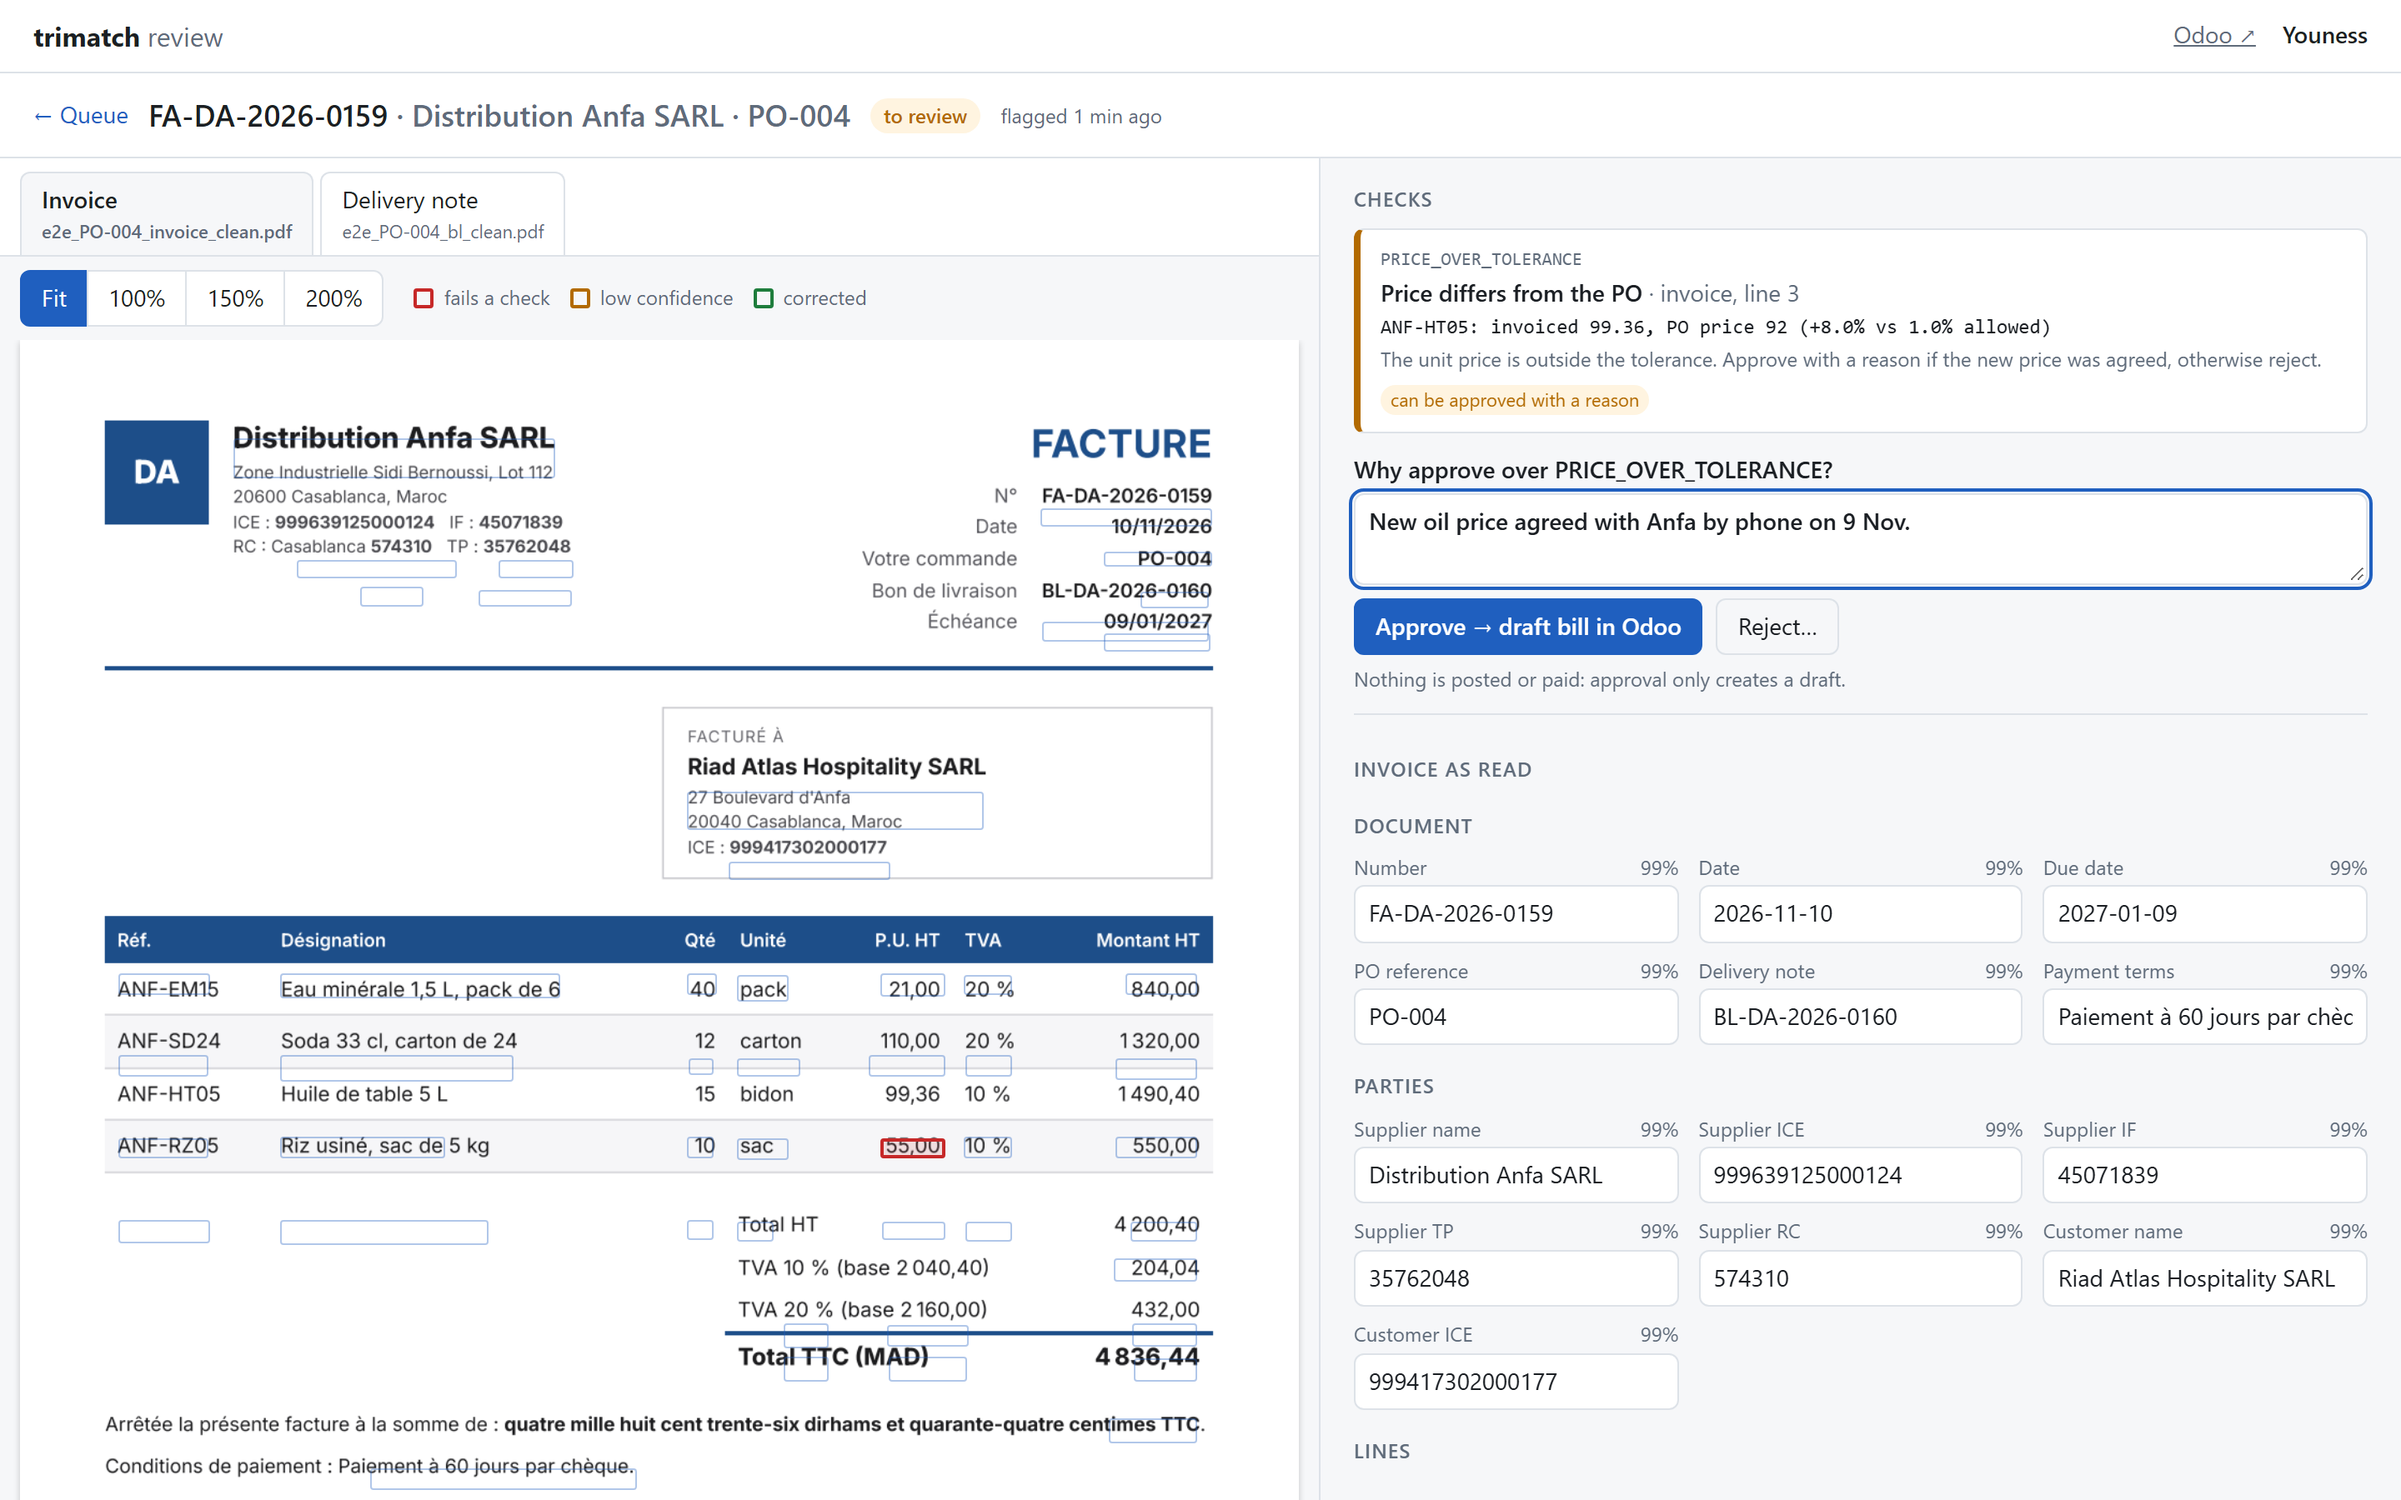
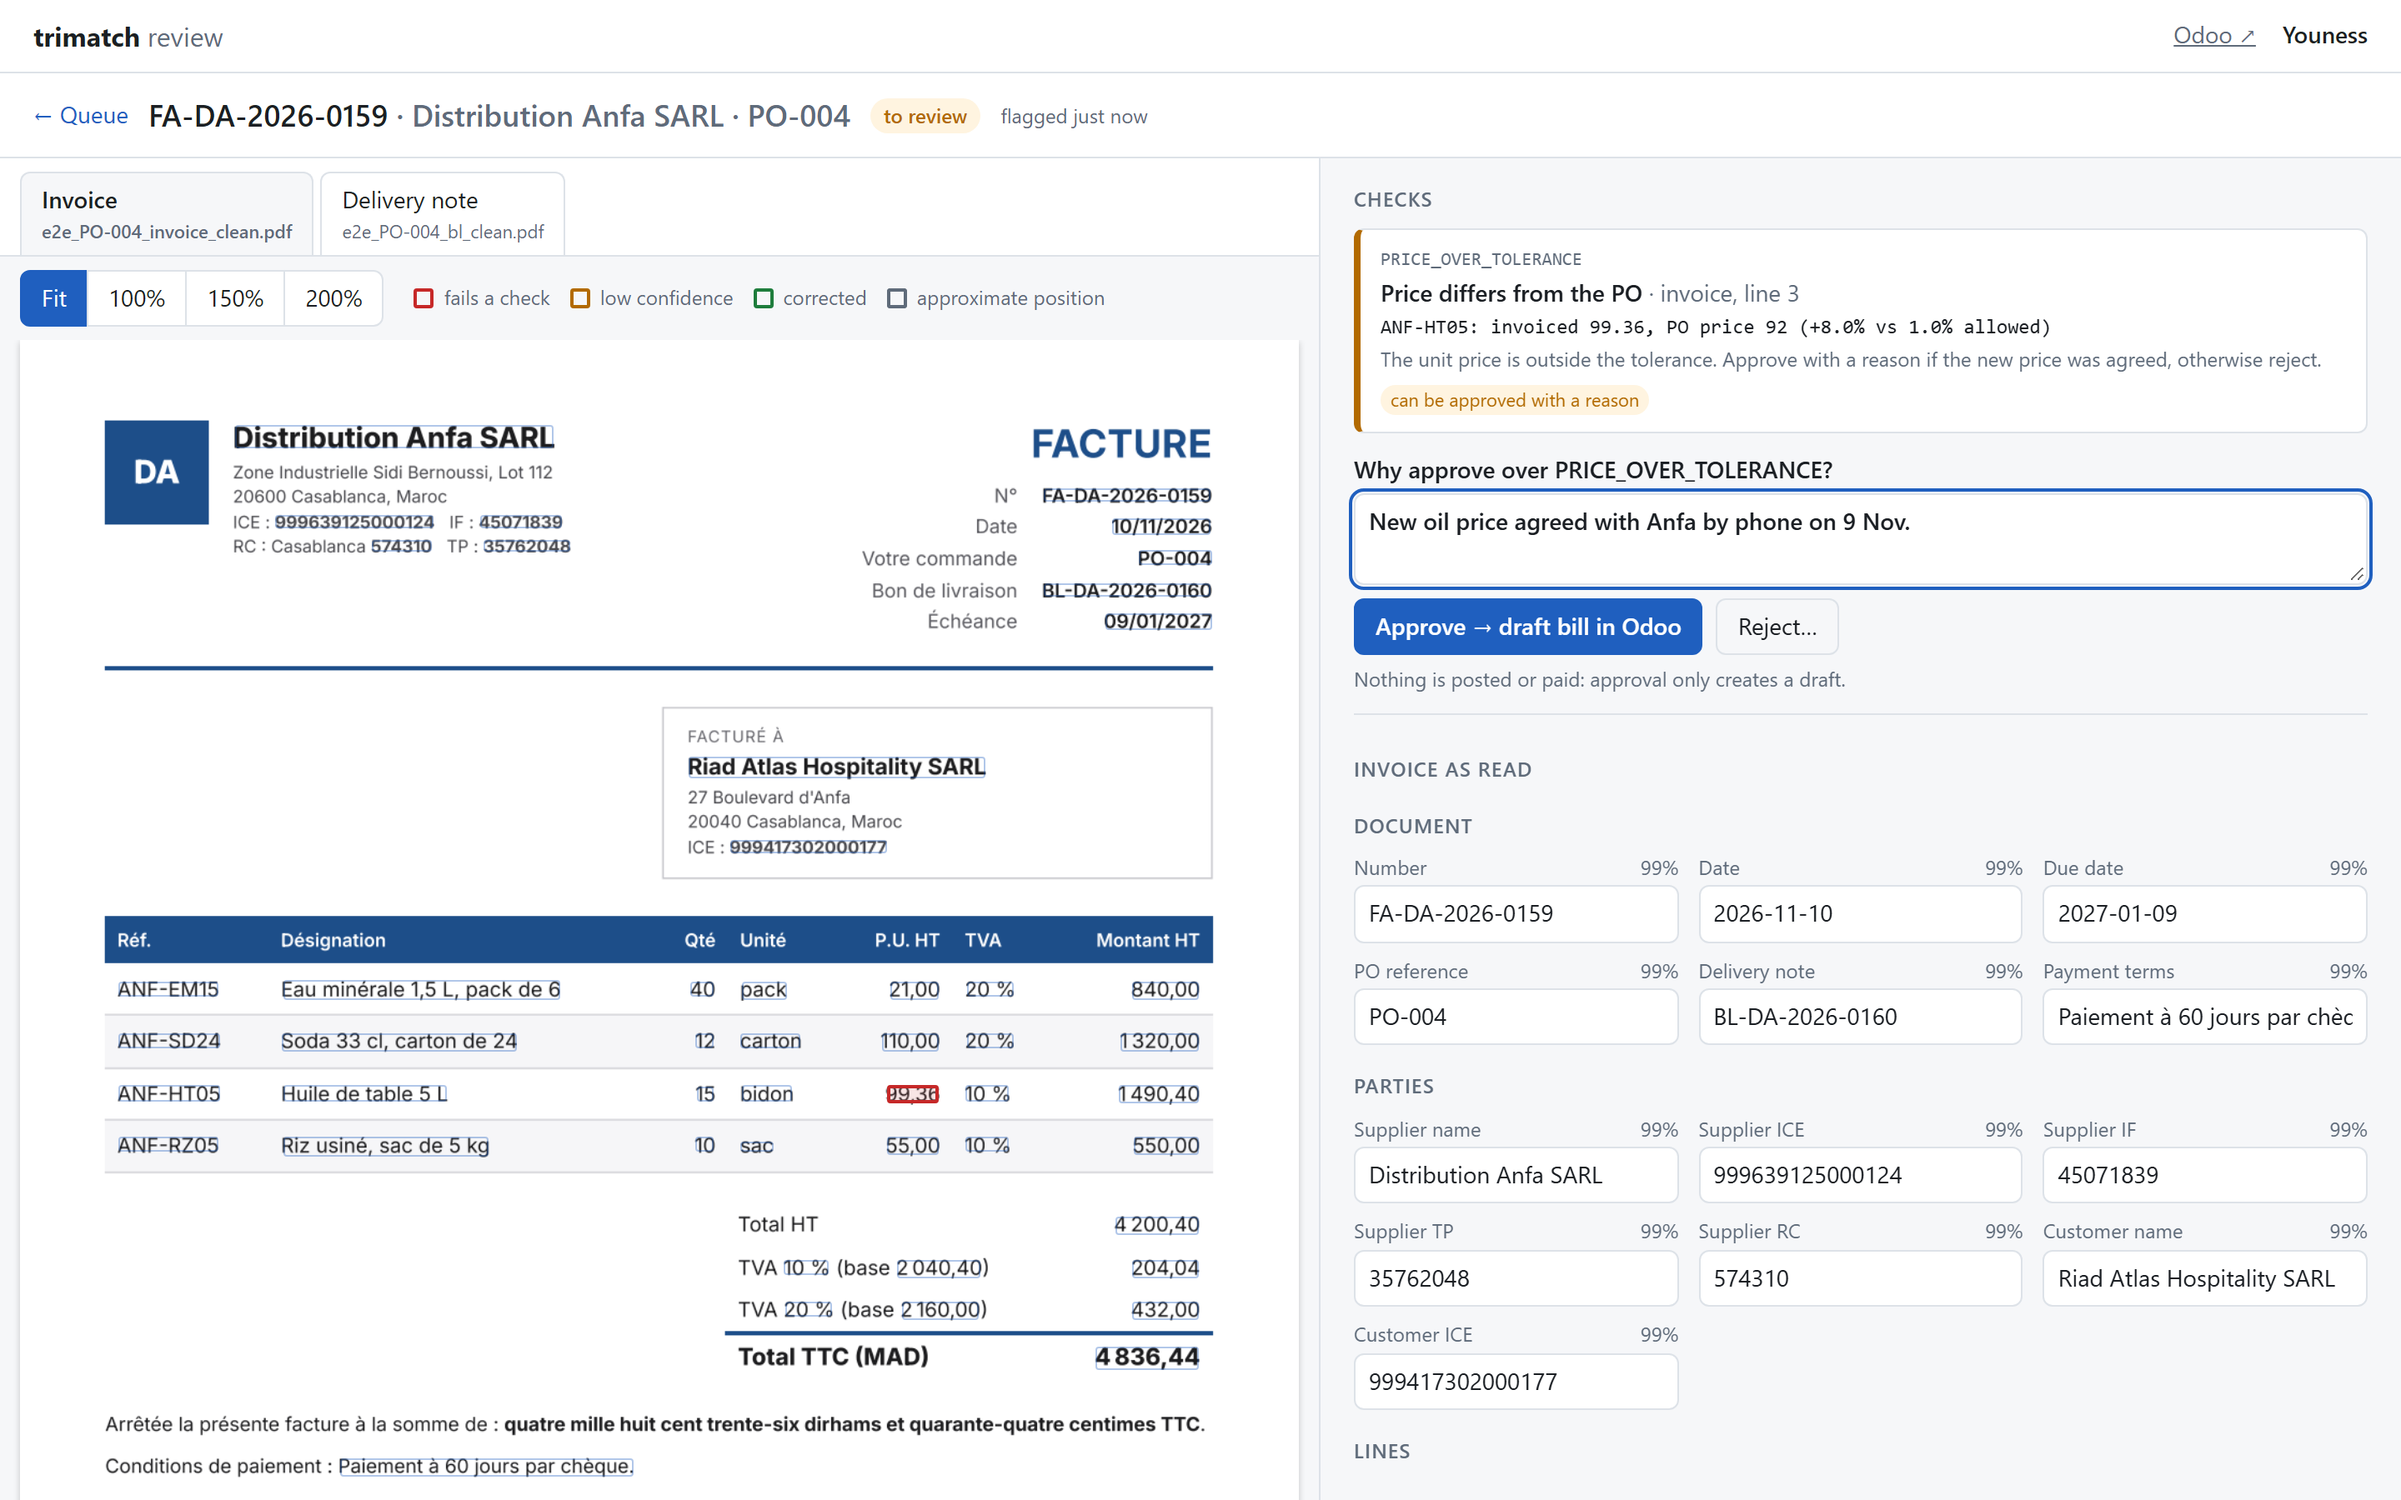
Shared pdfium lock (parallel extraction); demo re-recorded with snapped boxes

diff --git a/scripts/record_review_demo.py b/scripts/record_review_demo.py
@@ -67,11 +67,9 @@ def run(page: Page, ids: dict[str, int]) -> None:
     base.press_sequentially("2204.00", delay=120)
     expect(page.get_by_text("All checks pass")).to_be_visible(timeout=10_000)
     pause(page, 1200)
-    shot(page, "fixed")
     page.get_by_role("button", name="Approve → draft bill in Odoo").click()
     expect(page.get_by_text("Draft bill created in Odoo")).to_be_visible(timeout=20_000)
     pause(page, 1500)
-    shot(page, "approved")
 
     # 2. PO-004: +8% on one price; approve only with a reason.
     page.goto(f"{BASE}/cases/{ids['PO-004']}")
@@ -111,14 +109,17 @@ def run(page: Page, ids: dict[str, int]) -> None:
     page.goto(f"{BASE}/?status=all")
     expect(page.get_by_text("rejected").first).to_be_visible()
     pause(page, 1500)
-    shot(page, "queue-done")
 
 
 def to_gif(video: Path, out: Path) -> None:
     if not shutil.which("ffmpeg"):
         print("ffmpeg not found: no GIF", file=sys.stderr)
         return
-    vf = "fps=8,scale=960:-1:flags=lanczos,split[a][b];[a]palettegen=max_colors=128[p];[b][p]paletteuse=dither=bayer:bayer_scale=4"
+    vf = (
+        "fps=6,scale=800:-1:flags=lanczos,split[a][b];"
+        "[a]palettegen=max_colors=96:stats_mode=diff[p];"
+        "[b][p]paletteuse=dither=none:diff_mode=rectangle"
+    )
     subprocess.run(
         ["ffmpeg", "-y", "-loglevel", "error", "-i", str(video), "-vf", vf, str(out)], check=True
     )

diff --git a/backend/trimatch/extract/snap.py b/backend/trimatch/extract/snap.py
@@ -29,6 +29,7 @@ from pathlib import Path
 
 import pypdfium2 as pdfium
 
+from trimatch.pdfium_lock import PDFIUM_LOCK
 from trimatch.schema import Box
 
 MAX_DISTANCE = 0.12  # page fractions: beyond this an occurrence is not "the same value"
@@ -75,16 +76,17 @@ def _is_sep(ch: str) -> bool:
 
 def page_text(pdf_path: Path, page_index: int = 0) -> PageText | None:
     """The text layer of a page, or None if the file has none (scans)."""
-    pdf = pdfium.PdfDocument(pdf_path)
-    try:
-        page = pdf[page_index]
-        w, h = page.get_size()
-        tp = page.get_textpage()
-        n = tp.count_chars()
-        raw = [tp.get_text_range(i, 1) or " " for i in range(n)]
-        boxes = [tp.get_charbox(i) for i in range(n)]
-    finally:
-        pdf.close()
+    with PDFIUM_LOCK:  # the pipeline extracts several files in parallel threads
+        pdf = pdfium.PdfDocument(pdf_path)
+        try:
+            page = pdf[page_index]
+            w, h = page.get_size()
+            tp = page.get_textpage()
+            n = tp.count_chars()
+            raw = [tp.get_text_range(i, 1) or " " for i in range(n)]
+            boxes = [tp.get_charbox(i) for i in range(n)]
+        finally:
+            pdf.close()
     chars: list[str] = []
     rects: list[Rect] = []
     starts: list[bool] = []

diff --git a/backend/trimatch/api/pages.py b/backend/trimatch/api/pages.py
@@ -6,17 +6,16 @@ from __future__ import annotations
 import hashlib
 import io
 import mimetypes
-import threading
 import uuid
 from pathlib import Path
 
 import pypdfium2 as pdfium
 
 from trimatch.config import REPO_ROOT
+from trimatch.pdfium_lock import PDFIUM_LOCK
 
 CACHE_DIR = REPO_ROOT / "data" / "cache" / "pages"
 SCALE = 2.0  # 144 dpi: sharp enough to read small print when zoomed
-_LOCK = threading.Lock()  # pdfium is not thread-safe
 
 
 def media_type(path: Path) -> str:
@@ -26,7 +25,7 @@ def media_type(path: Path) -> str:
 def page_count(path: Path) -> int:
     if media_type(path) != "application/pdf":
         return 1
-    with _LOCK:
+    with PDFIUM_LOCK:
         pdf = pdfium.PdfDocument(path)
         try:
             return len(pdf)
@@ -49,7 +48,7 @@ def page_image(path: Path, page: int, cache_dir: Path | None = None) -> tuple[by
     cached = cache_dir / f"{key}.png"
     if cached.is_file():
         return cached.read_bytes(), "image/png"
-    with _LOCK:
+    with PDFIUM_LOCK:
         pdf = pdfium.PdfDocument(path)
         try:
             if not 1 <= page <= len(pdf):

diff --git a/backend/trimatch/pdfium_lock.py b/backend/trimatch/pdfium_lock.py
@@ -1,0 +1,5 @@
+"""pdfium is not thread-safe: every use in this process goes through this one lock."""
+
+import threading
+
+PDFIUM_LOCK = threading.Lock()

diff --git a/docs/progress.md b/docs/progress.md
@@ -17,7 +17,9 @@ Newest first. One entry per work session: date, what was done, what's next.
 - PR 4 merged (#7). Youness approved the box fix.
 - Box snapping built (`extract/snap.py`): the text Gemini copied is looked up in the PDF text layer (pypdfium2 char boxes, spaces ignored, word-aligned); values printed once are anchors and give the page's median shift; repeated values ("10 %") take the occurrence on their table line's row, else the nearest to the shift-corrected Gemini box (max 0.12 page); not found -> shifted Gemini box marked `approximate` (new `Box.approximate`, dashed in the screen). Scans keep Gemini's box, approximate.
 - `eval/boxes.py` (cached responses only, never calls the API). Dev split (tuning check, first try, nothing changed after it): snapped boxes on the value for 1309/1310 fields. **Reported, test split, 40 clean PDFs, 1504 fields, code fb48cf2:** box centre on the right value 100.0% snapped vs 33.0% Gemini; IoU >= 0.5 99.1% vs 16.7%; 1503 marked exact, 0 of them wrong. Report: eval/results/2026-11-16_fb48cf2_boxes_test.md.
-- Next: re-record the demo (screenshots + GIF) with snapped boxes; then the remaining Phase 1 items.
+- Found while re-recording: the pipeline extracts files in 4 threads and pdfium is not thread-safe ("Data format error" on the text layer read). One process-wide lock (`trimatch/pdfium_lock.py`) now guards every pdfium call (snapping and page images).
+- Demo re-recorded on a reset stack (same Gemini cache, same 2 drafts + 3 cases): boxes sit on the printed values; the misread PO-003 base is dashed. GIF (800 px, 6 fps, 4.2 MB) and screenshots in the README.
+- Next: remaining Phase 1 items (duplicate-invoice scenario, UBL path, local OCR/extractor comparison, which also brings word boxes for scans, real held-out documents).
 
 ## 2026-11-15
 - Step 5 (eval) done. `eval.run` writes dated reports; first reported result on the held-out test split (seed 2, 200 docs, gemini-3.5-flash-lite, code 7b4bdbc): field accuracy 99.2%, document accuracy 86.5%. e2e dry run: 8/10 decisions exact, 0 wrong drafts (2 clean cases flagged by VAT/total checks after a misread number). Reports in eval/results/, numbers in README.

diff --git a/README.md b/README.md
@@ -58,11 +58,17 @@ uv run --project backend trimatch serve
 
 Open http://127.0.0.1:8000. Each flagged invoice shows the document with a box on every extracted value, the failed checks in words, and the values as read next to the PO's ordered/received quantities and prices. Fix a misread value and the checks re-run; **Approve** creates the draft bill in Odoo (with an internal note naming the reviewer, the corrections and the reason), **Reject** closes the case with a reason. A price difference or a delivery-note mismatch can be approved with a written reason; a bill for more than was received cannot. Corrections are stored as labelled data. Set `TRIMATCH_REVIEWER=<your name>` in `.env` first. For UI development run `npm --prefix frontend run dev` (port 5173, API proxied to 8000).
 
+![Review demo](docs/img/review-demo.gif)
+*The three cases below, end to end: fix a misread value, approve over a price change with a reason, reject a short delivery.*
+
 ![Review queue](docs/img/review-queue.png)
 *The queue after a Gemini run on the 5 e2e orders: two invoices became drafts, three are waiting.*
 
+![Misread VAT base](docs/img/review-misread.png)
+*PO-003: Gemini read the 10% VAT base 2 204,00 as 2 204,04, so VAT_MATH fails (red). The value isn't printed as read, so its box is an estimate (dashed); every other box comes from the PDF's text layer. Typing 2204.00 re-runs the checks and enables Approve.*
+
 ![Price change: approve with a reason](docs/img/review-override.png)
-*PO-004: the oil price is 8% over the PO. The check explains itself; approving needs a written reason, which also goes into the note on the Odoo draft.*
+*PO-004: the oil price is 8% over the PO; the red box is on the invoiced 99,36. The check explains itself; approving needs a written reason, which also goes into the note on the Odoo draft.*
 
 ![Short delivery: reject](docs/img/review-short-delivery.png)
 *PO-002: the reviewer corrected a misread total (4 700,05 → 4 700,00); the arithmetic checks now pass, but the invoice bills 20 kg of merlan when 14 kg were received, which can't be overridden.*
